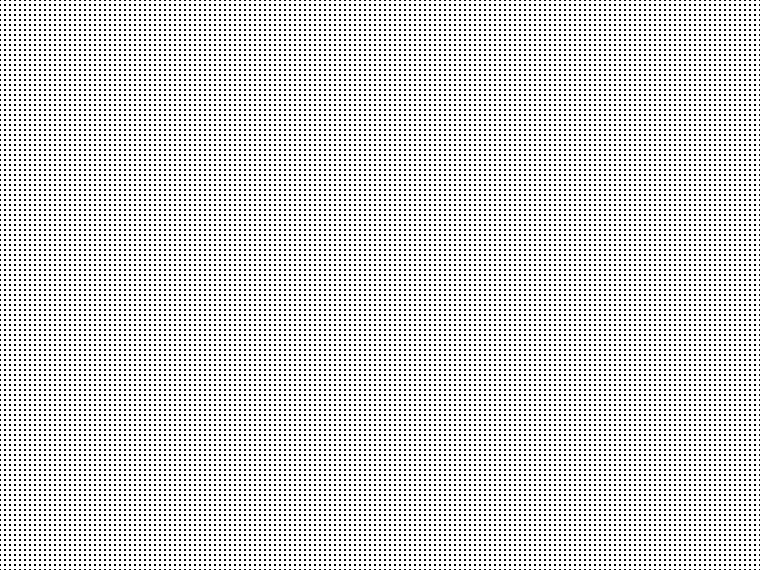
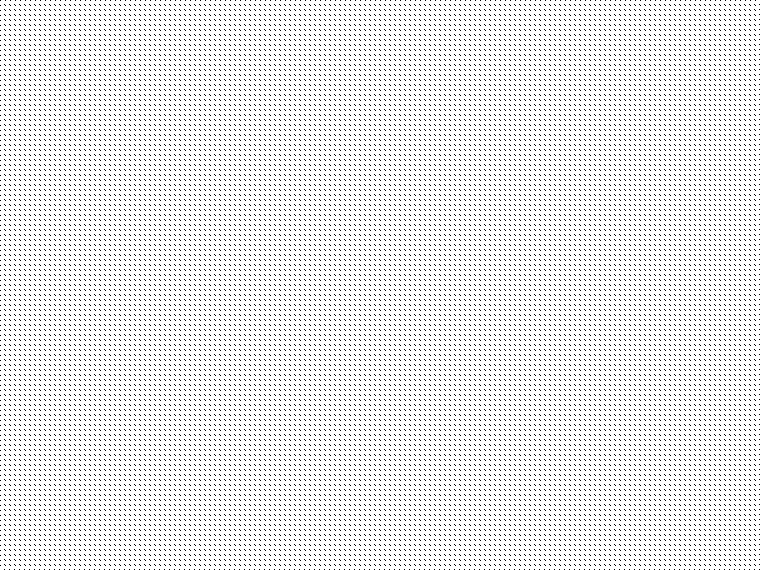
이수환: 디더링 작업중

diff --git a/Downwell_DX/DownwellContents/OpeningScene.cpp b/Downwell_DX/DownwellContents/OpeningScene.cpp
@@ -8,6 +8,7 @@
 #include "DevolverLogo.h"
 #include "Developers.h"
 #include "HowToPlay.h"
+#include "DitherFullScreen.h"
 
 OpeningScene::OpeningScene()
 {
@@ -45,9 +46,10 @@ void OpeningScene::BeginPlay()
 		false);
 
 	TimeEventComponent->AddEndEvent(7.5f,
-		[]()
+		[this]()
 		{
-			UEngineCore::OpenLevel("Title");
+			OpeningScene::FadeIn();
+			//UEngineCore::OpenLevel("Title");
 		},
 		false);
 }
@@ -72,4 +74,10 @@ void OpeningScene::ShowControl()
 	DevelopersName->Destroy();
 	//DevelopersName = nullptr;
 	Control = GetWorld()->SpawnActor<HowToPlay>();
+}
+
+void OpeningScene::FadeIn()
+{
+	Dither = GetWorld()->SpawnActor<DitherFullScreen>();
+	Dither->SetActorLocation({ 0.0f, -285.0f, -50.0f });
 }

diff --git a/Downwell_DX/DownwellContents/OpeningScene.h b/Downwell_DX/DownwellContents/OpeningScene.h
@@ -20,6 +20,7 @@ public:
 
 	void ShowDevelopers();
 	void ShowControl();
+	void FadeIn();
 
 protected:
 
@@ -27,7 +28,9 @@ private:
 	std::shared_ptr<class HowToPlay> Control;
 	std::shared_ptr<class Developers> DevelopersName;
 	std::shared_ptr<class DevolverLogo> Logo;
+	std::shared_ptr<class DitherFullScreen> Dither;
 
 	std::shared_ptr<class UTimeEventComponent> TimeEventComponent;
+
 };
 
